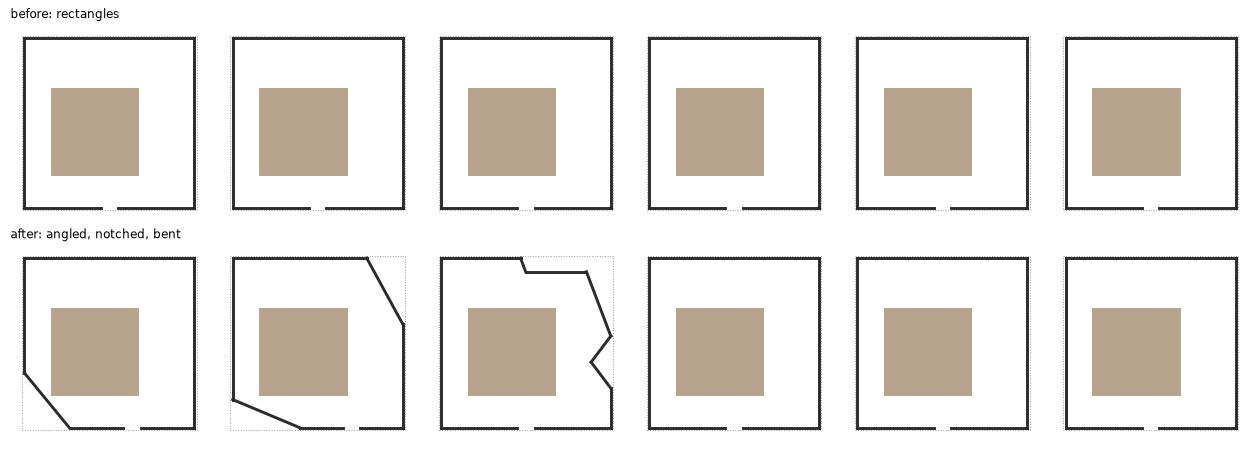
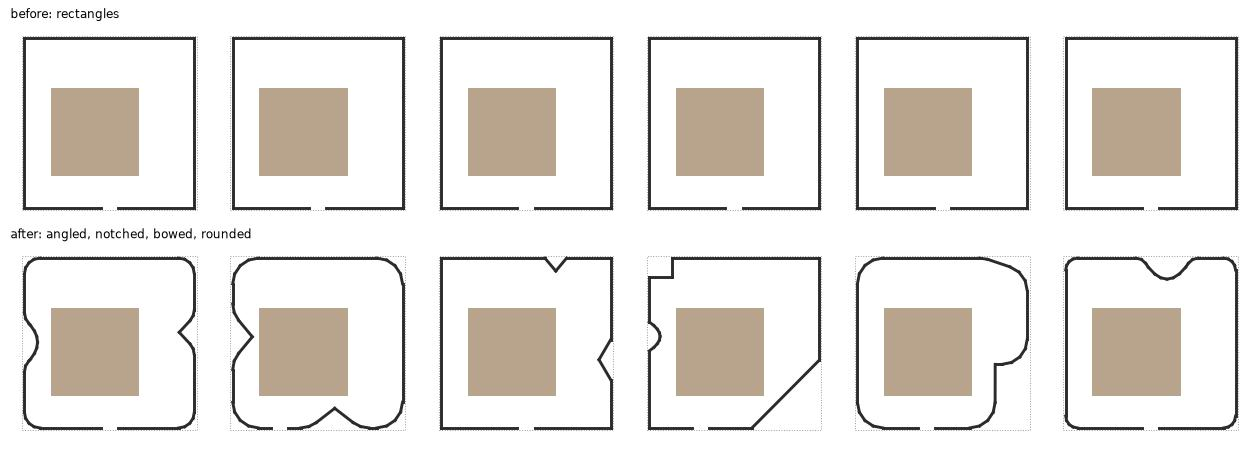
FRK-106: curved bites and rounded corners on compound walls; dense urban lots get slanted cuts

diff --git a/src/fraktal/compounds.py b/src/fraktal/compounds.py
@@ -50,6 +50,8 @@ GATE_M = 3.0
 MIN_AREA_M2 = 120.0
 IRREGULAR_SHARE = 0.7  # of compounds that get slanted, chamfered, notched or kinked walls
 CUT_COUNTS = (0.1, 0.3, 0.35, 0.25)  # shares that take 0, 1, 2 or 3 cuts
+ROUND_SHARE = 0.35  # of reshaped compounds that also get rounded corners
+ARC_STEPS = 8
 MIN_KEPT_SHARE = 0.55  # of the lot the walls must still enclose
 
 
@@ -111,7 +113,7 @@ def build(
         segments: list[list[float]] = []
         for i, (a, b) in enumerate(edges):
             length = float(np.hypot(*(b - a)))
-            if length < 0.5:
+            if length < 1e-6:
                 continue
             if i != gate:
                 segments.append(_seg(a, b, origin))
@@ -145,7 +147,8 @@ def build(
 
 
 def reshape(poly: Any, keep: Any, rng: Any) -> Any:
-    """``poly`` with up to three straight cuts taken off, so its walls meet at odd angles.
+    """``poly`` with up to three cuts taken off (straight, or a curved bite) and maybe rounded
+    corners, so its walls meet at odd angles and bow.
 
     Cuts only remove ground, so the result stays inside the lot. A cut that would touch ``keep``
     (the house, with a margin) or leave under ``MIN_KEPT_SHARE`` of the lot is skipped.
@@ -165,7 +168,7 @@ def reshape(poly: Any, keep: Any, rng: Any) -> Any:
         if min(ln, lp) < 6.0:
             continue
         un, up = to_next / ln, to_prev / lp
-        kind = int(rng.integers(0, 4))
+        kind = int(rng.integers(0, 5))
         d1 = float(rng.uniform(2.0, min(12.0, 0.45 * lp)))
         d2 = float(rng.uniform(2.0, min(12.0, 0.45 * ln)))
         if kind == 0:  # a corner cut off at a slant
@@ -174,7 +177,7 @@ def reshape(poly: Any, keep: Any, rng: Any) -> Any:
             cut = [v, v + up * d1, v + up * d1 + un * d2, v + un * d2]
         elif kind == 2:  # a whole side leaned over: a trapezoid
             cut = [v, nxt, v + up * min(d1 + 3.0, 0.45 * lp)]
-        else:  # a wedge pushed into the middle of a side, so the wall bends
+        elif kind == 3 or kind == 4:  # a wedge, or a curved bite, pushed into the middle of a side
             t, w = float(rng.uniform(0.3, 0.7)), float(rng.uniform(3.0, min(9.0, 0.5 * ln)))
             mid = v + un * ln * t
             normal = np.array([-un[1], un[0]])
@@ -182,7 +185,16 @@ def reshape(poly: Any, keep: Any, rng: Any) -> Any:
                 normal = -normal
             if not shape.contains(_pt(mid + normal * 0.3)):
                 continue
-            cut = [mid - un * w / 2, mid + normal * float(rng.uniform(1.5, 4.0)), mid + un * w / 2]
+            depth = float(rng.uniform(1.5, 4.0))
+            if kind == 3:
+                cut = [mid - un * w / 2, mid + normal * depth, mid + un * w / 2]
+            else:  # a parabolic arc: the wall bows inwards
+                cut = [
+                    mid
+                    + un * w * (k / ARC_STEPS - 0.5)
+                    + normal * depth * (1 - (2 * k / ARC_STEPS - 1) ** 2)
+                    for k in range(ARC_STEPS + 1)
+                ]
         trial = shape.difference(Polygon(cut))
         if trial.geom_type == "MultiPolygon":
             trial = max(trial.geoms, key=lambda g: g.area)
@@ -191,6 +203,12 @@ def reshape(poly: Any, keep: Any, rng: Any) -> Any:
         if keep is not None and not trial.contains(keep):
             continue
         shape, done = trial.simplify(0.05), done + 1
+    if done and float(rng.uniform()) < ROUND_SHARE:  # round the convex corners
+        r = float(rng.uniform(2.0, 5.0))
+        rounded = shape.buffer(-r).buffer(r, quad_segs=4).simplify(0.03)
+        fits = keep is None or rounded.contains(keep)
+        if rounded.geom_type == "Polygon" and rounded.area >= MIN_KEPT_SHARE * start and fits:
+            shape = rounded
     return shape
 
 
@@ -248,7 +266,7 @@ def pack(compounds: list[dict[str, Any]]) -> dict[str, Any]:
 
         for x0, y0, x1, y1 in c["segments"]:
             length = math.hypot(x1 - x0, y1 - y0)
-            if length < 0.05:
+            if length < 1e-3:
                 continue
             ux, uy = (x1 - x0) / length, (y1 - y0) / length
             thick = SHEET_THICKNESS_M if c.get("kind") == "sheet" else THICKNESS_M
@@ -258,6 +276,8 @@ def pack(compounds: list[dict[str, Any]]) -> dict[str, Any]:
                 c["height_m"],
             )
             if c.get("kind") == "piered":  # a post at each end and every few metres between
+                if length < 2.0:  # a short run of a curve: no post on every facet
+                    continue
                 steps = max(1, round(length / PIER_SPACING_M))
                 for k in range(steps + 1):
                     px, py = x0 + ux * length * k / steps, y0 + uy * length * k / steps

diff --git a/tests/unit/test_compounds.py b/tests/unit/test_compounds.py
@@ -166,3 +166,14 @@ def test_a_gate_is_still_cut_on_irregular_compounds() -> None:
             starts = {(round(s[0], 1), round(s[1], 1)) for s in c["segments"]}
             ends = {(round(s[2], 1), round(s[3], 1)) for s in c["segments"]}
             assert len(starts - ends) == 1  # one wall end is not met by another: the gate
+
+
+def test_some_walls_curve_and_a_curve_is_many_short_runs() -> None:
+    parcels, buildings, roads = _layers(6)
+    counts = [
+        len(c["segments"])
+        for seed in range(40)
+        for c in compounds.build(parcels, buildings, roads, (0.0, 0.0), 400.0, seed, 1.0)
+    ]
+    assert max(counts) >= 12 > 5  # a square has five runs; a bowed or rounded wall many more
+    assert sum(n > 8 for n in counts) / len(counts) > 0.1

diff --git a/src/fraktal/biomes.py b/src/fraktal/biomes.py
@@ -63,6 +63,7 @@ BIOMES: dict[str, Biome] = {
                 frontage_m=(9.0, 15.0),
                 depth_m=(28.0, 33.0),
                 min_area_m2=120.0,
+                skew_deg=16.0,  # slanted cuts between lots, so plots are not all square
                 blocks=True,
                 block_depth_m=30.0,
             ),

diff --git a/docs/research/realism-gap-analysis.md b/docs/research/realism-gap-analysis.md
@@ -353,4 +353,4 @@ Details in the ADR-0012 addendum 2.
 - **Sky, dust and shadow tone (FRK-113)**: `fraktal.lighting.draw` gives each scene, from its seed and sun elevation, a warm sun colour (orange when low, warm white when high), a sky gradient from a clear zenith to a dusty horizon, a warm glow around the sun and a sky-fill strength. `blender_scene.build_light` builds the sun lamp and a node-based world (gradient plus sun lobe, no Nishita node, so it does not depend on the Blender version); scenes exported before this keep the old flat light. The fill is much stronger than before (1.3 to 1.9, was 0.55), so street shadows are lit by the sky: over 8 dense-urban tiles the darkest tenth of pixels went from 20 to 41 (of 255) and the median from 75 to 108, while the brightest 5 percent went from 136 to 189, so the picture is brighter and flatter overall. Both are judged by eye and by those numbers; there is no real urban chip to compare shadows against. See `docs/img/realism/sky-shadow-before-after.jpg` (top before, bottom after). Haze already varies per tile in the sensor chain. Not done: a tone curve in the renderer (the view transform stays Raw so colours compare with 2.5D) and softer tree shadows.
 
 - **Drone lens effects (FRK-114)**: `kernels.sensor.lens_effects` adds a vignette (corner darkening by a share), chromatic aberration (red magnified and blue shrunk, a fringe of N pixels at the corner) and JPEG-style block compression at a given quality (8 x 8 DCT blocks, JPEG's quantisation table, plain numpy so there is no encoder dependency and the output is the same on every machine), in that order, after the sensor chain and noise. `render3d_batch.plan(..., sensor=True, lens=(...))` draws each tile's values from a stream of its own (every effect is always drawn, so leaving one out never moves the others); an effect left out is 0, which is off. `fraktal render3d-batch --sensor --lens` turns on all three, or name some (`--lens vignette compression`). Ranges are assumed, not fitted: vignette 0.15 to 0.45, fringe 0.4 to 1.6 px, JPEG quality 55 to 85. The golden test pins all three. Evidence: `docs/img/realism/drone-lens-effects.jpg` (our own render; original, vignette, fringe, compression, all three, then a corner crop of the fringe and a crop of the compression blocks, at exaggerated settings). Not done: it is for the batch sensor chain only, not yet for video frames or the 2.5D renderer.
-- **Compound wall outlines (FRK-106):** walls were always the lot's rectangle. About 70% of compounds now get one to three inward cuts (a slanted corner, a notch, a leaning side, a bent wedge), skipped when they would touch the house. The gate moves to the longest side nearest the road. Plan view: `docs/img/realism/compound-outlines.jpg`.
+- **Compound wall outlines (FRK-106):** walls were always the lot's rectangle. About 70% of compounds now get one to three inward cuts (a slanted corner, a notch, a leaning side, a bent wedge), skipped when they would touch the house. The gate moves to the longest side nearest the road. A cut can also be a curved bite (a bowed wall) and about a third of reshaped compounds get rounded corners. Dense urban lots now take slanted cuts between neighbours (`skew_deg` 16, as informal settlement already had); Khartoum's strip lots are still square. Plan view: `docs/img/realism/compound-outlines.jpg`.
